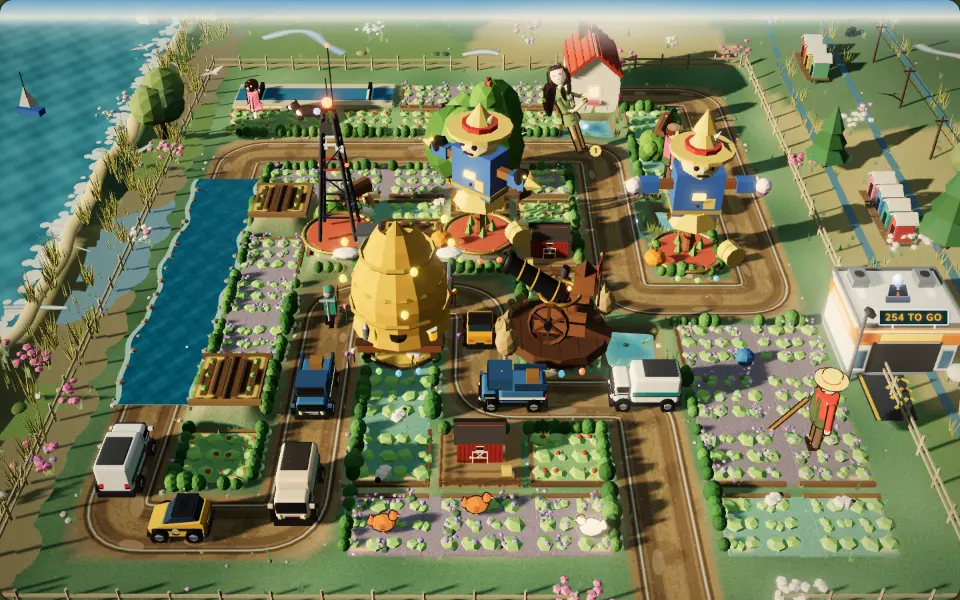
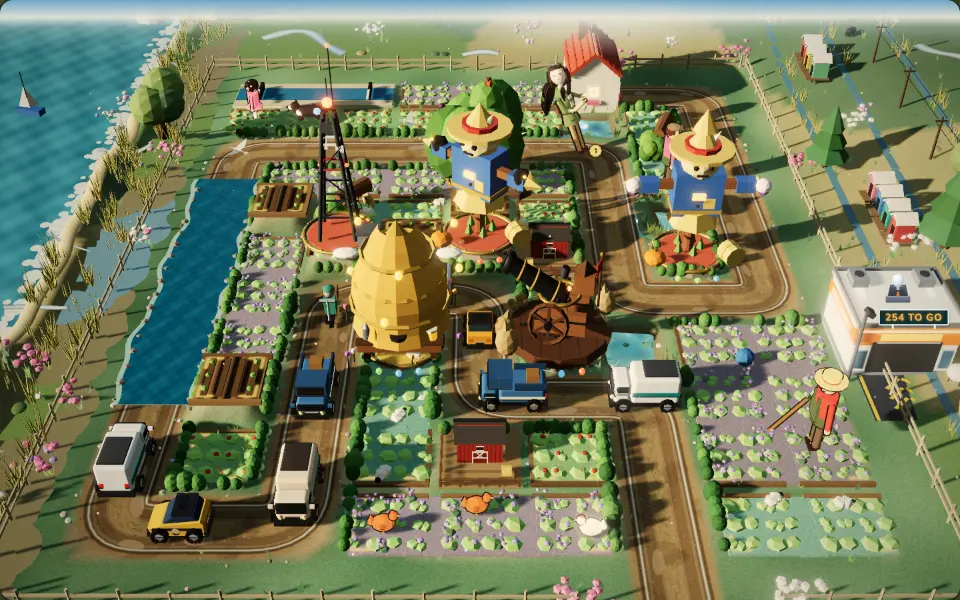
Hedgerow 3D: Hollowell's depot at twice its footprint, scaled back only where the frame is tight (plan item 584, slice 1); key art re-shot
Claude-Session: https://claude.ai/code/session_01SimvMN1RHBGCWN7Eo7MzhN

diff --git a/games/hedgerow/src/render3d/index.ts b/games/hedgerow/src/render3d/index.ts
@@ -3476,21 +3476,29 @@ export class Renderer3D {
     const taken: Rect[] = [];
     for (const d of depots) {
       const spots = (d.userData.spots as Array<{ x: number; y: number; z: number; d: number }> | undefined) ?? [];
-      let best: { sp: (typeof spots)[number]; score: number; r: Rect } | null = null;
-      for (const sp of spots) {
-        d.position.set(sp.x, sp.y, sp.z);
-        d.updateMatrixWorld(true);
-        const r = this.boxRect(new THREE.Box3().setFromObject(d), w, h);
-        const area = Math.max(1, r.w * r.h);
-        const inside = meet(r, { x: 0, y: 0, w, h }) / area;
-        const field = cells.reduce((a, c) => a + meet(r, c), 0) / area;
-        const blocked = [...signs, ...taken, ...(cath ? [cath] : [])].reduce((a, c) => a + meet(r, c), 0) / area;
-        // Off the frame weighs most, then over Cath, a sign or the other depot, then over the field; the gate's
-        // distance (in cells) settles the rest.
-        // Plan item 391: off the frame weighs double what it did (40): at D on level 1 a fifth of the depot stood past
-        // the canvas's right edge (8) rather than lean its roof over the lane's first row from the north verge.
-        const score = (1 - inside) * 90 + blocked * 30 + field * 12 + sp.d * 0.6;
-        if (!best || score < best.score) best = { sp, score, r };
+      let best: { sp: (typeof spots)[number]; score: number; r: Rect; inside: number } | null = null;
+      // Plan item 584: the depot at its full size where a spot keeps it in frame, else a step smaller each time, down
+      // to item 179's 0.8 (level 1 at D has no spot wholly in frame for the bigger building).
+      const base = (d.userData.baseScale as number | undefined) ?? d.scale.x;
+      for (const k of [1, 0.9, 0.8, 0.71]) {
+        d.scale.setScalar(base * k);
+        best = null;
+        for (const sp of spots) {
+          d.position.set(sp.x, sp.y, sp.z);
+          d.updateMatrixWorld(true);
+          const r = this.boxRect(new THREE.Box3().setFromObject(d), w, h);
+          const area = Math.max(1, r.w * r.h);
+          const inside = meet(r, { x: 0, y: 0, w, h }) / area;
+          const field = cells.reduce((a, c) => a + meet(r, c), 0) / area;
+          const blocked = [...signs, ...taken, ...(cath ? [cath] : [])].reduce((a, c) => a + meet(r, c), 0) / area;
+          // Off the frame weighs most, then over Cath, a sign or the other depot, then over the field; the gate's
+          // distance (in cells) settles the rest.
+          // Plan item 391: off the frame weighs double what it did (40): at D on level 1 a fifth of the depot stood past
+          // the canvas's right edge (8) rather than lean its roof over the lane's first row from the north verge.
+          const score = (1 - inside) * 90 + blocked * 30 + field * 12 + sp.d * 0.6;
+          if (!best || score < best.score) best = { sp, score, r, inside };
+        }
+        if (!best || best.inside >= 0.92) break;
       }
       if (!best) continue;
       d.position.set(best.sp.x, best.sp.y, best.sp.z);

diff --git a/games/hedgerow/src/render3d/terrain.ts b/games/hedgerow/src/render3d/terrain.ts
@@ -65,6 +65,9 @@ const timeU = { value: 0 };
 const cloudOff = { value: new THREE.Vector2() };
 const cloudAmt = { value: 0.3 };
 /** Plan item 486 (tests): the drifting cloud shadows off (or back to `amt`), so a sampled frame is the same each run. */
+/** Plan item 584: the 3D depot's scale (its footprint twice item 179's 0.8). */
+const DEPOT_3D_SCALE = 1.13;
+
 export function setCloudShadows(amt: number): void {
   cloudAmt.value = amt;
 }
@@ -2116,13 +2119,15 @@ export function buildGround(level: Level, opts: { phone?: boolean } = {}): Groun
     // screen), none on a gate.
     const depot = buildDepot();
     // Plan item 179: big enough that the shed itself (not only its bay) reads, about 90 px wide at D.
-    depot.scale.setScalar(0.8);
+    // Plan item 584: twice that footprint (0.8 -> 1.13), so Hollowell's building outweighs the farm's sheds.
+    depot.scale.setScalar(DEPOT_3D_SCALE);
+    depot.userData.baseScale = DEPOT_3D_SCALE;
     depot.rotation.y = -Math.PI / 2;
     const gx = gate.position.x, gz = gate.position.z;
     const spots: Array<{ x: number; z: number; near?: number }> = [];
     // Plan item 391: and hard by the field's west and east edges (0.75 out, its flank on the verge's first strip), for
     // a frame that crops the verge (at D level 1's east depot stood a fifth past the canvas's edge); a cell dearer.
-    for (let z = 0.5; z < level.rows; z += 1) spots.push({ x: -1.1, z }, { x: level.cols + 1.1, z }, { x: -0.75, z, near: 1 }, { x: level.cols + 0.75, z, near: 1 });
+    for (let z = 0.5; z < level.rows; z += 1) spots.push({ x: -1.25, z }, { x: level.cols + 1.25, z }, { x: -1.0, z, near: 1 }, { x: level.cols + 1.0, z, near: 1 }, { x: -0.75, z, near: 1.5 }, { x: level.cols + 0.75, z, near: 1.5 });
     for (let x = -0.5; x <= level.cols + 0.5; x += 1) spots.push({ x, z: -1.9 });
     // Beside the gate or the lane's first six cells, where the round queues (further off, it reads as another
     // lane's), and off every gate.
